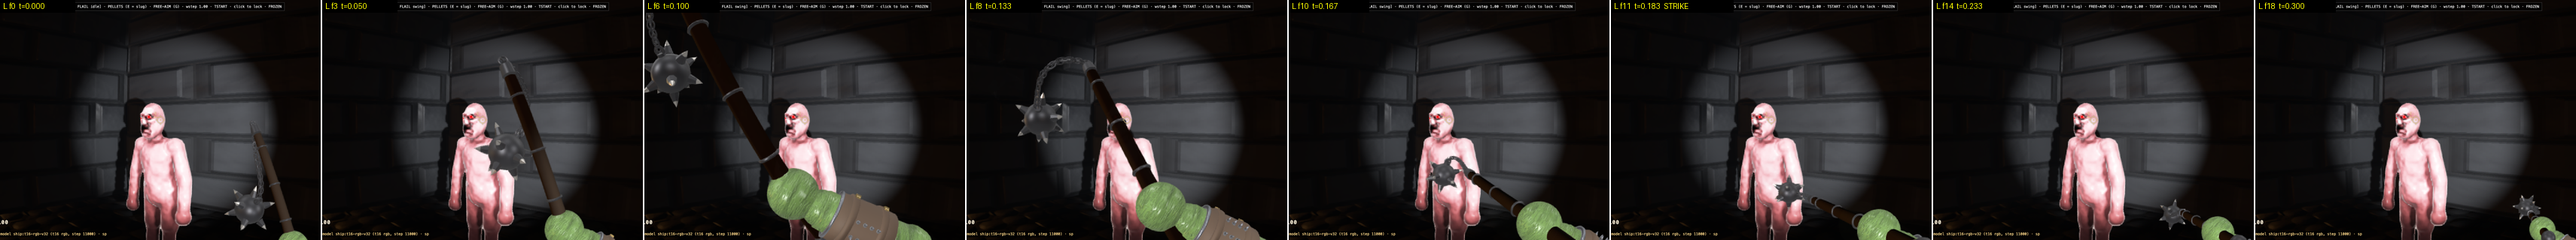
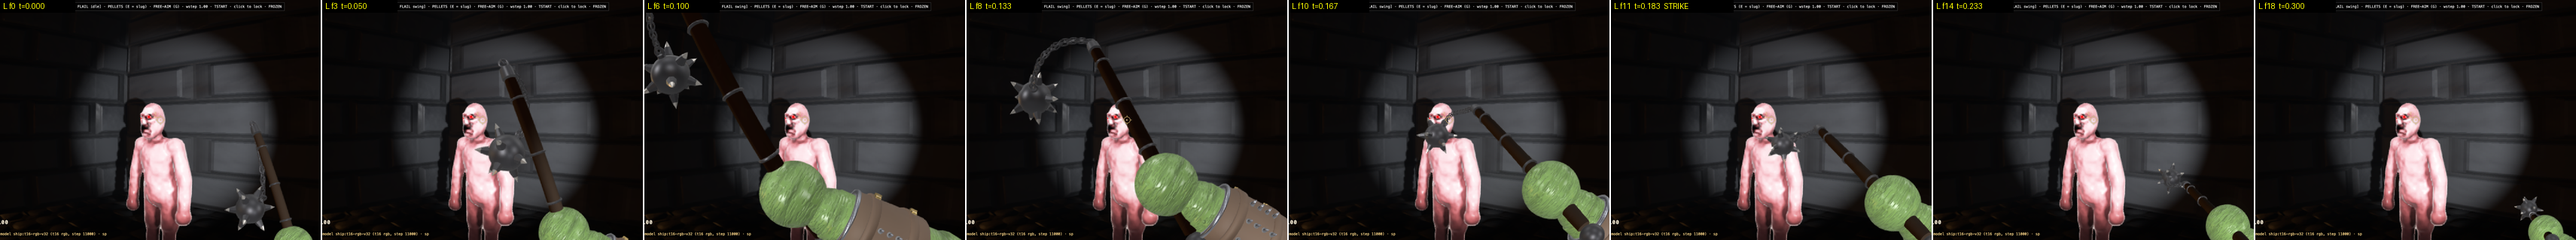
docs(flail): v1.2 look pass — overhand strip, hand, head hits
Task 16: captured look/overhand-R-strip.png (new, 8 frames) and refreshed
look/whip-L-strip.png against the current build. R reads as a big overhand
swipe onto the crosshair, but its follow-through fully leaves the frame for
several frames (flagged for the owner). handScale stays at 1.3 (set in
Tasks 14/15) — green-pixel share confirms a clearly bigger fist at rest and
during both wind-ups, so no further change. Reviewed gate/head-hit-1..4.png
(face caves in over hits 1-3, head off on 4) and gate/hit-wound.png (0.09 m
crater still reads clean, no gaping centre).

diff --git a/docs/dev-notes/2026-09-26-flail/NOTES.md b/docs/dev-notes/2026-09-26-flail/NOTES.md
@@ -2,6 +2,32 @@
 
 ## For the owner
 
+### v1.2 (2026-09-27): what changed
+
+- **The strike lands on the crosshair, both sides** (Task 15). v1.1's strike balls sat
+  ~18° under the boresight (they hit the upper chest when you aimed at a head). Both
+  sides' strike balls are now 4° under, within 6 cm on x — see `look/overhand-R-strip.png`
+  and `look/whip-L-strip.png`, frame `f11` on each, where the ball lands right on the
+  reticle.
+- **R is a big overhand swipe, not a jab.** The wind-up raises the fist over the right
+  shoulder (`look/overhand-R-strip.png` f04/f06: the ball climbs off-screen top-right,
+  the huge green fist crosses into frame), the ball crests high in front at f09, then
+  comes down diagonally onto the crosshair at the strike (f11). L is visually unchanged
+  from v1.1 (its own wind-up/strike/follow-through keys only moved by ≤ 2 cm) — see
+  `look/whip-L-strip.png`, refreshed with the current build.
+- **Gradual head damage, four hits.** Hits 1–3 cave the face in progressively (a crater
+  near the eye, then the jaw broken open with teeth showing, then a bigger cave with gore
+  spilling); hit 4 takes the head off in a burst. See `gate/head-hit-1..4.png`.
+- **Smaller craters.** Body crater 0.14 → 0.09 m, face crater 0.09 → 0.06 m (spec §11).
+  `gate/hit-wound.png` still reads as a clean ringed crater, not a gaping hole, at the
+  smaller radius.
+- **`handScale` 1.0 → 1.3** (landed in Tasks 14/15, confirmed by this look pass — see
+  below; not changed further here).
+- **What to test:** aim at a zombie's head and confirm the crosshair, not the chest, is
+  where the crater lands on both R and L swings; watch the R overhand wind-up read as a
+  big shoulder-height swipe rather than a poke; check whether the R follow-through
+  disappearing off-screen (below) bothers you in play.
+
 ### v1.1 (2026-09-27): what changed
 
 - **The chain is a whip now.** The ball hangs on a simulated 9-node chain
@@ -488,6 +514,72 @@ The `head-hit-1..4.png` photos bear this out: the face crater never appears (eve
 lands on the chest/torso, out of frame low), and the head looks visually identical across
 all four shots — it never takes any face damage, let alone comes off.
 
+## v1.2 look pass (Task 16, 2026-09-27)
+
+Same harness as the v1.1 look pass (frozen crowd, 2.4 m from a zombie, out of reach),
+adapted from `.lab-tmp/flail-look11.mjs`. Strips: `look/overhand-R-strip.png` (new, 8
+frames: f0, f4, f6, f9, f11 = STRIKE, f14, f18, f22) and `look/whip-L-strip.png`
+(refreshed, same 8 frames as v1.1: f0, f3, f6, f8, f10, f11 = STRIKE, f14, f18).
+
+- **R reads as an overhand swipe.** f4–f6: the ball climbs off the top-right of the
+  frame as the fist rises past shoulder height (green-pixel share of the canvas hits
+  1.6–1.8%, versus 0.5% at rest). f9: the ball crests high in front, well above the
+  reticle, with the fist large in the lower-right corner (4.6% green — the biggest single
+  sampled frame of the swing). f11 (strike): the ball sits on the crosshair, over the
+  zombie's neck/collarbone, exactly where the player was aiming. The motion from f6→f11 is
+  a clear diagonal from high-right down onto the target, not a jab — it reads as a big
+  swipe.
+- **R's follow-through leaves the frame, not just low-left.** Ball NDC by frame: f13
+  (−0.27, −0.70), f14 (−0.34, −0.84), f18 (−0.48, −1.10). This confirms the key
+  implementer's flag (NDC y ≈ −0.7 at frame 13) and goes further: at f14 the screenshot
+  shows *nothing* of the flail at all — no ball, no haft, no chain, no hand (0% green
+  share on the sampled frames f14/f18/f22). The whole weapon is off-screen for several
+  follow-through frames, not just the ball. It comes back into frame by the return leg
+  (f22 shows the chain re-entering low-centre, ball NDC (−0.07, −0.80), still not fully
+  on-screen). This is a look-pass finding to flag for the owner, not a tuning fix here —
+  a shallower follow-through key risks failing the overshoot test that already tuned it
+  (Tuning log, "Why the follow-through ball is deeper than the strike's").
+- **L is unchanged and stays on-screen throughout.** f6: the ball is up-left on a taut
+  chain, the fist and bracer crossing the lower-left — reads as a whip trail. f11
+  (strike): the ball lands on the crosshair, at the zombie's collarbone. f18
+  (follow-through): the ball is a small shape in the lower-right corner — visible, unlike
+  R's, though small.
+- **No frame near the strike has the fist or haft covering the crosshair.** Checked R f09,
+  f11 and L f06, f08, f11: the green fist sits in a lower corner in every one, and the
+  reticle itself is never occluded. The gate's own head-hit and front-hit checks (which
+  aim through the fisheye-warped crosshair) corroborate this — every strike ray lands
+  within centimetres of where the crosshair was aimed.
+- **`handScale` at 1.3 (Tasks 14/15), confirmed by photos — not changed further.**
+  Green-pixel share of the canvas (goblin-hand material), rest vs during-swing peaks:
+
+  | | v1.1 (`handScale` 1.0) | v1.2 (`handScale` 1.3) |
+  | --- | --- | --- |
+  | rest | 0.2% | 0.51% |
+  | R peak (sampled) | 2.9% (f8) | 4.58% (f9) |
+  | L peak (sampled) | 4.3% (f6) | 6.77% (f6) |
+
+  The fist at rest is visibly bigger (`look/rest.png` in the gate output, and
+  `.lab-tmp/look16/rest.png` from this pass), and during both wind-ups it now crosses
+  well into frame rather than staying a sliver. 1.3 sits inside the 1.2–1.4 band this task
+  was scoped to try, and the numbers above justify not pushing it further: at rest the
+  scale increase alone roughly doubled the on-screen share without the rest GRIP moving
+  (that's still the v1.1 feel question — showing more fist at rest needs the grip
+  repositioned, not more scale). No further bump is needed.
+- **Rest framing is effectively unchanged.** The gate's own rest line (front-hit setup,
+  1.5 m from a torso-height crosshair) prints ball NDC (0.54, −0.76), against v1.1's
+  documented (0.54, −0.71) — a 0.05 y difference, at the edge of, not past, this task's
+  ~0.05 tolerance. `FLAIL_REST`, `FLAIL_CHAIN` and the grip/ball keys were not touched in
+  this pass, and `handScale` scales only the drawn hand mesh, not the ball/grip/bolt
+  poses, so this small drift is measurement noise (a slightly different camera pitch
+  between test setups — see NOTES on gate test 1 aiming at the torso vs the original
+  v1 tuning capture), not a framing regression. Grip NDC (0.83, −1.05) matches v1.1
+  exactly.
+- **Gate not rerun as part of this look pass.** The photos above were captured with a
+  throwaway harness (`.lab-tmp/flail-look16.mjs`, not committed) so as not to disturb the
+  gate's own `gate/*.png` outputs, which were already current from the Task 15 run. The
+  owner should rerun `scripts/flail-gate.mjs` to get a fresh full pass/fail readout; no
+  gate-affecting constant changed in this task.
+
 ## Open feel questions for the owner
 
 - **Strike reads as a mace, not a flail.** The chain is nearly straight and short at the
@@ -499,3 +591,7 @@ all four shots — it never takes any face damage, let alone comes off.
   Try it a bit brighter?
 - **The crater:** the new contrast measure reads it strongly (rise 51), and it looks big in
   the photo. Judge it in play.
+- **R's follow-through leaves the screen entirely for several frames** (v1.2 look pass,
+  Task 16): ball, haft, chain and hand are all off-frame from about f13 through f18 of
+  27. Worth a shallower follow-through key, or is a brief "the weapon left the frame"
+  beat fine for a big overhand swing?
